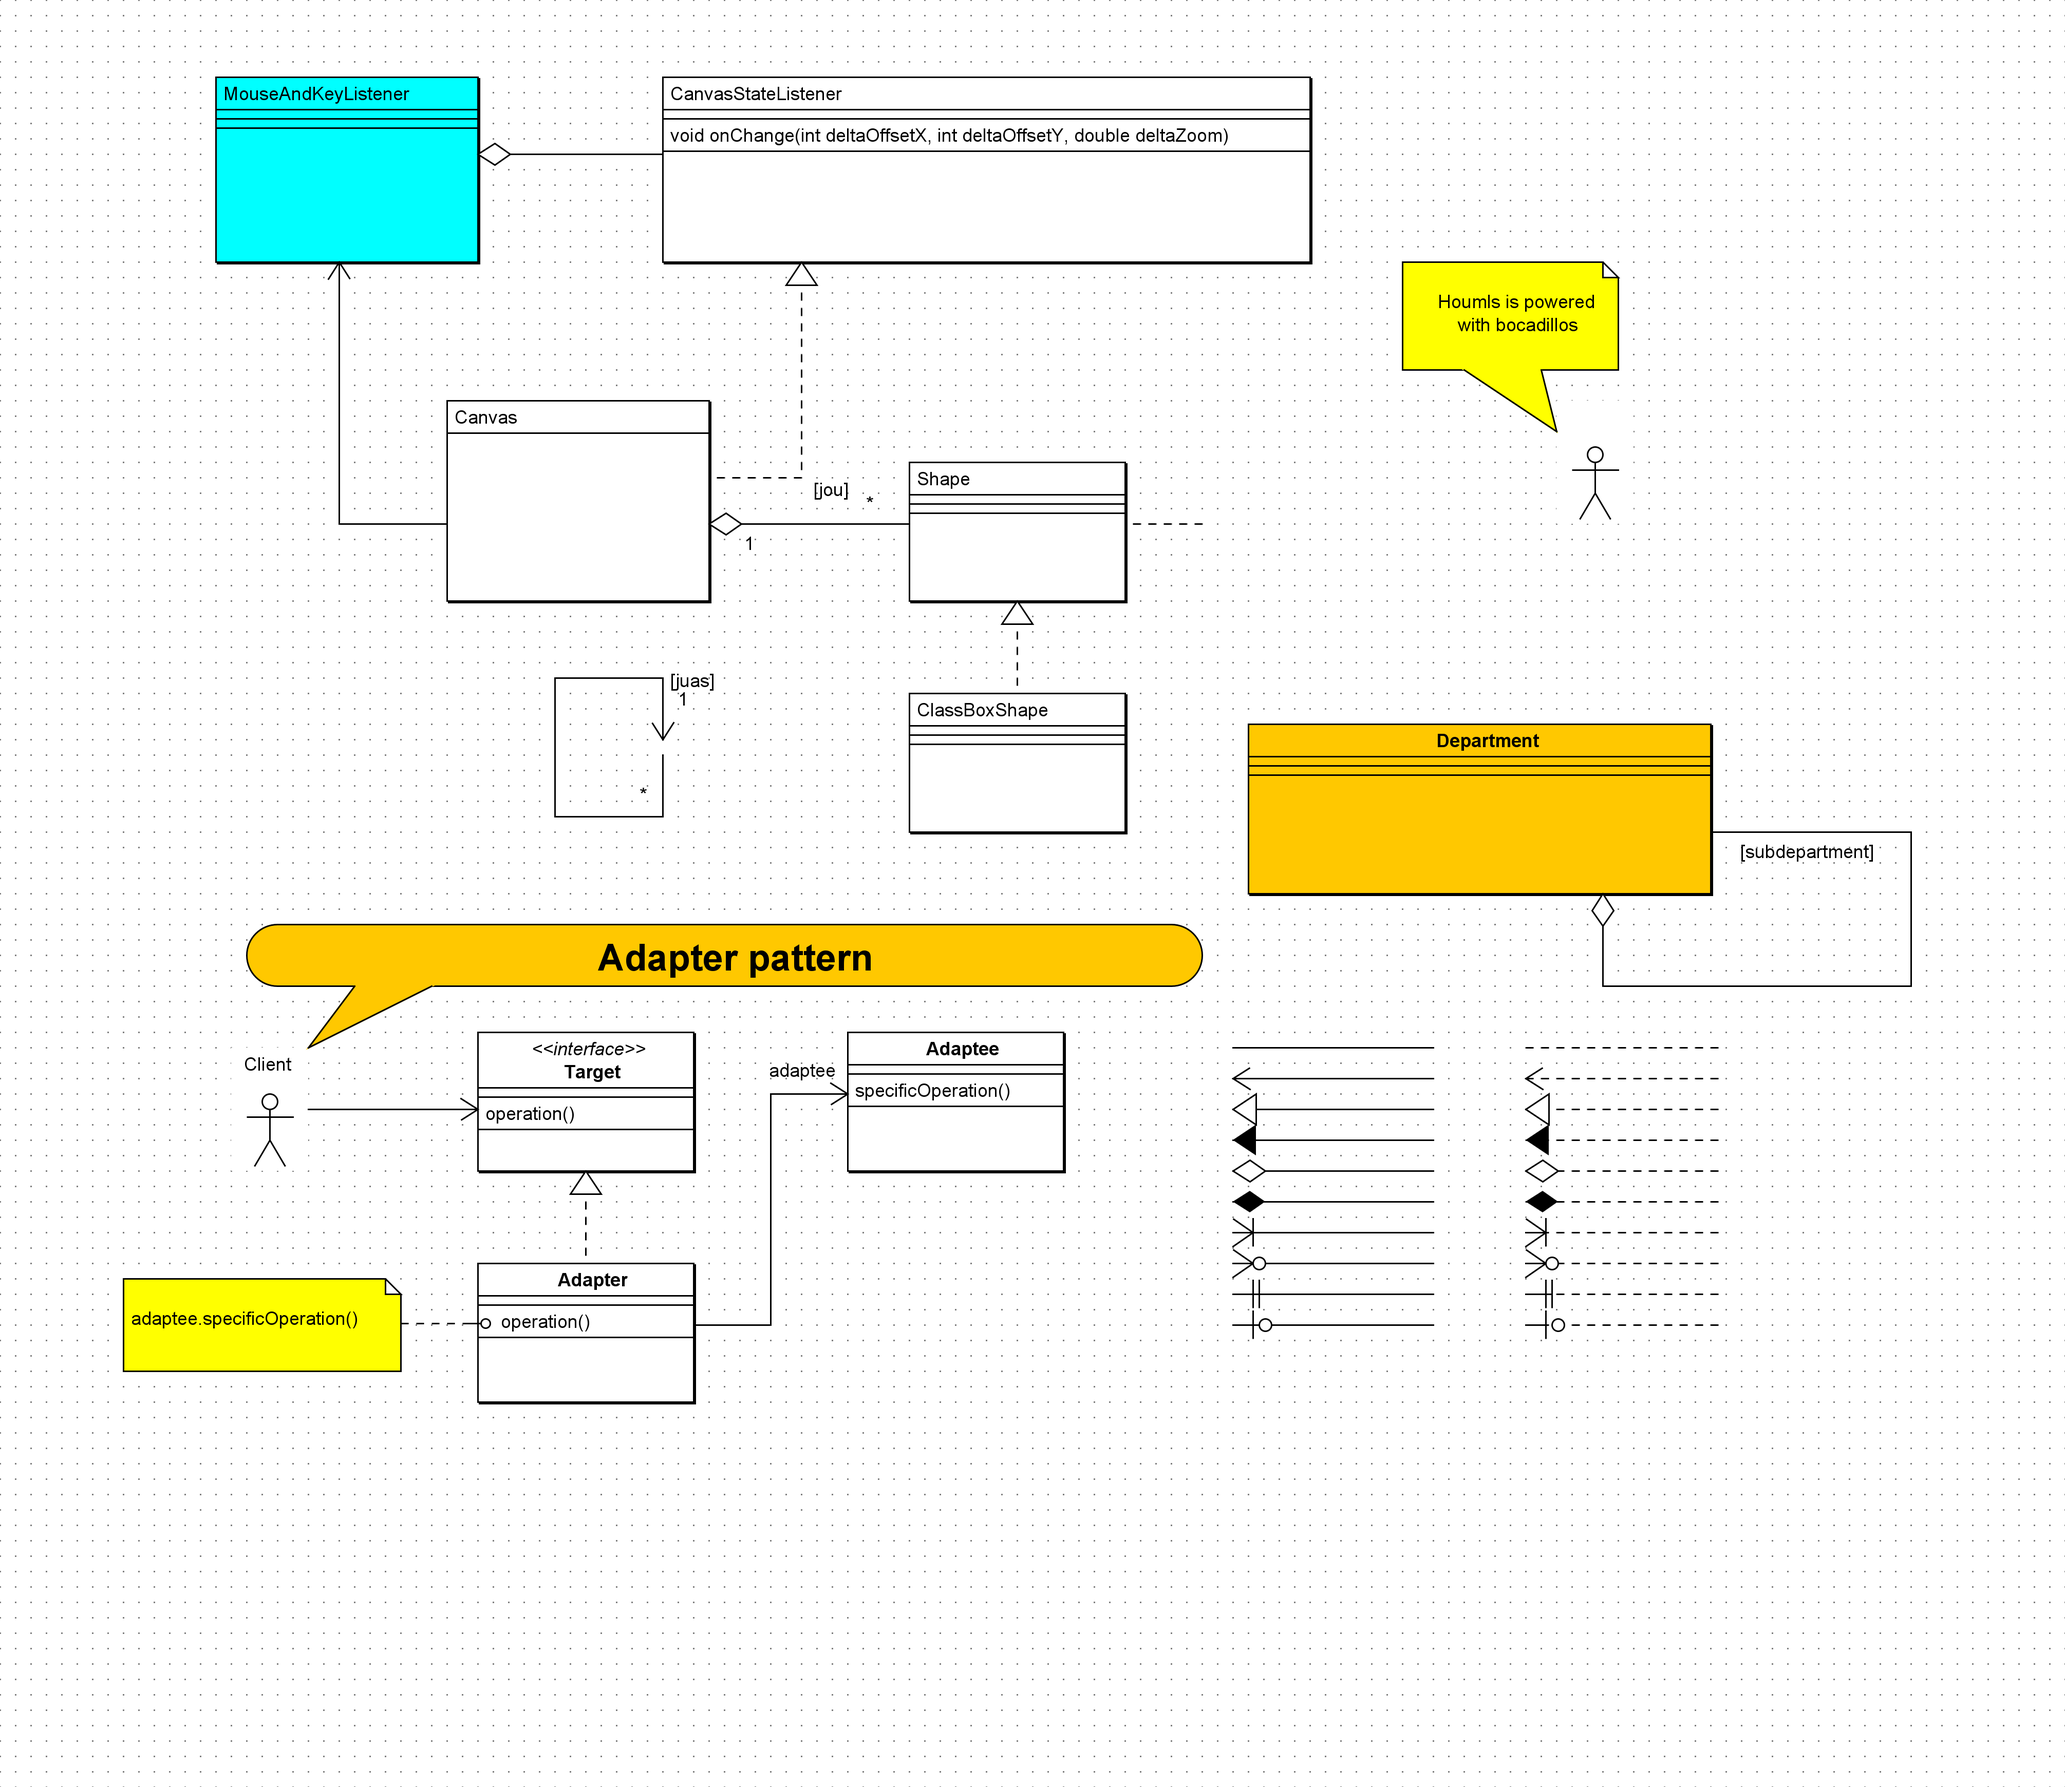
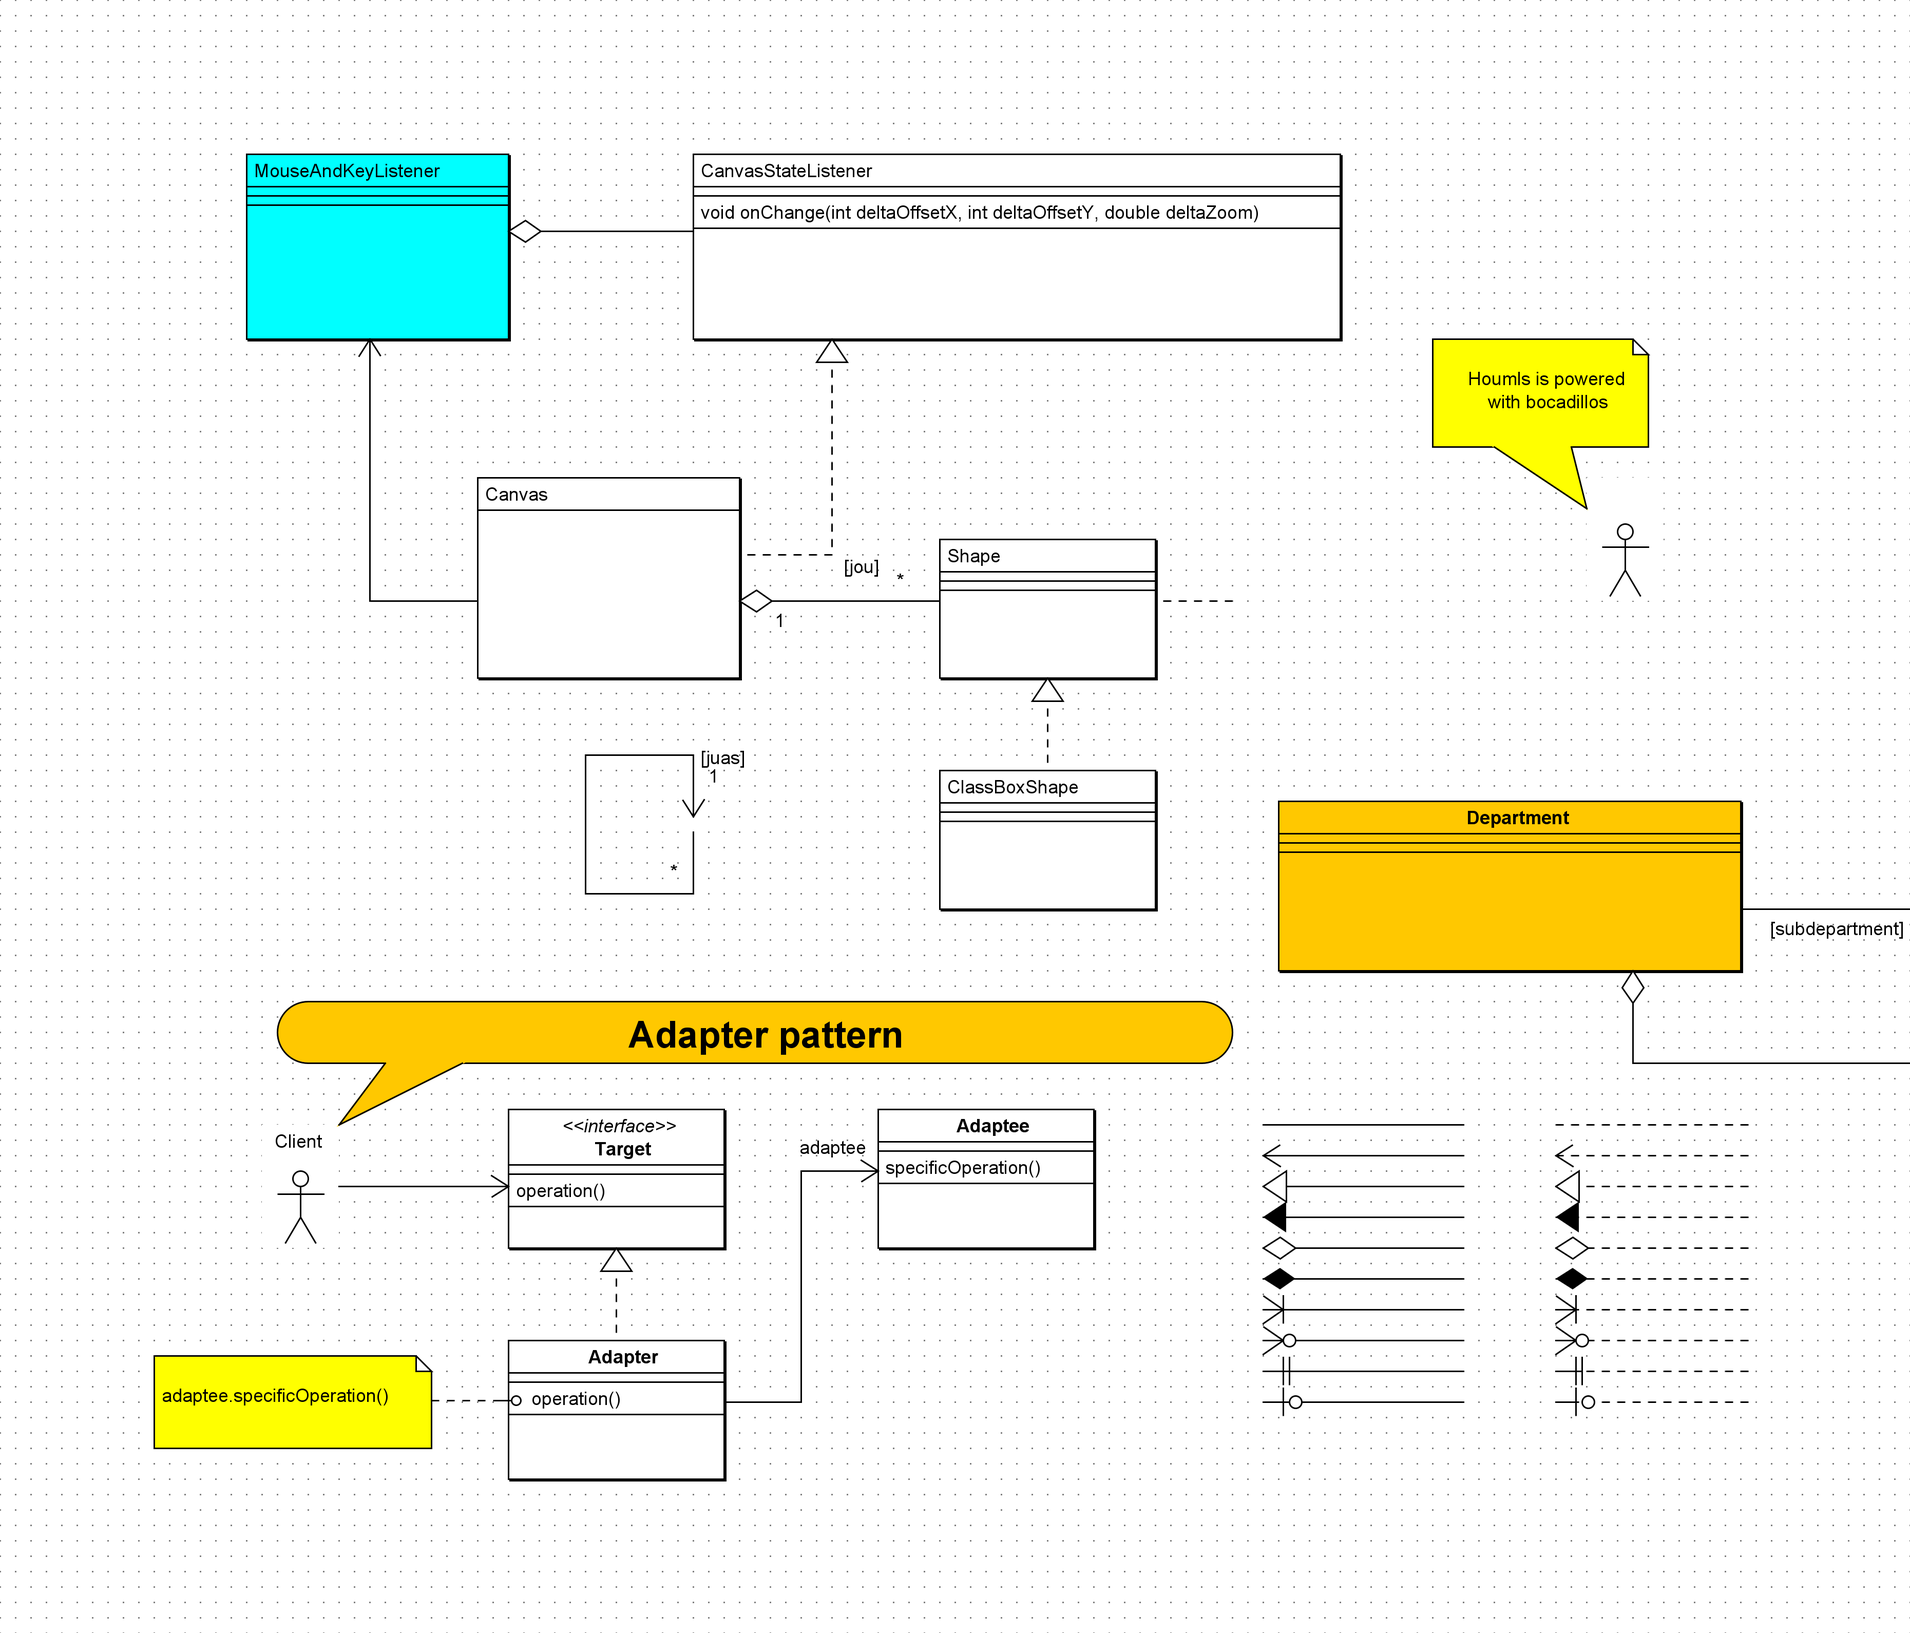
.

diff --git a/src/main/java/org/homs/houmls/MainC1.java b/src/main/java/org/homs/houmls/MainC1.java
@@ -48,6 +48,7 @@ import static org.homs.houmls.LookAndFeel.yellowMartin;
  *
  *     - undo
  *     - multisellecció + moure en grup!
+ *     - copy/cutty/paste!
  *     - accions de teclat
  *
  *      - llegir "UML Distilled" (Martin Fowler) i apendre UML pràctic d'una puta vegada
@@ -70,7 +71,7 @@ import static org.homs.houmls.LookAndFeel.yellowMartin;
  *      - caixa amb codi turtle: recordar com era en QuickBasic. Demo amb turtle
  *      - millorar turtle a lo QBasic?
  *        http://www.antonis.de/qbebooks/gwbasman/draw.html#:~:text=The%20DRAW%20statement%20combines%20most,valid%20only%20in%20graphics%20mode.
- *      - nou connector amb relleno, que es pugui enganxar a caixa i fer bocadillos!
+ *      X nou connector amb relleno, que es pugui enganxar a caixa i fer bocadillos!
  *
  * </pre>
  */
@@ -124,6 +125,7 @@ public class MainC1 {
             final JButton openBbutton;
             final JButton saveButton;
             final JButton saveAsButton;
+            final JButton centerDiagram;
 
             FileNameExtensionFilter filter = new FileNameExtensionFilter("Houmls files", "houmls", "uxf");
 
@@ -212,17 +214,30 @@ public class MainC1 {
                         }
                     });
 
+
+            centerDiagram = buildButton("icons/arrow_out.png", "Center diagram", null, null, null,
+                    new AbstractAction() {
+                        private static final long serialVersionUID = -1337580617687814477L;
+
+                        @Override
+                        public void actionPerformed(ActionEvent e) {
+                            canvas.centerDiagram();
+                        }
+                    });
+
             toolBar.add(newButton);
             toolBar.add(openBbutton);
             toolBar.add(saveButton);
             toolBar.add(saveAsButton);
             toolBar.addSeparator();
+            toolBar.add(centerDiagram);
         }
 
         f.add(toolBar, BorderLayout.NORTH);
 
         JSplitPane sl = new JSplitPane(JSplitPane.HORIZONTAL_SPLIT, canvas, lateralBar);
         f.add(sl);
+
         {
             GraphicsEnvironment env = GraphicsEnvironment.getLocalGraphicsEnvironment();
             Rectangle frameBounds = env.getMaximumWindowBounds();

diff --git a/src/main/java/org/homs/houmls/Canvas.java b/src/main/java/org/homs/houmls/Canvas.java
@@ -502,6 +502,20 @@ public class Canvas extends JPanel {
         return offsetAndZoomListener;
     }
 
+    public void centerDiagram() {
+        Dimension canvasSize = getSize();
+        Rectangle diagramBounds = diagram.getDiagramBounds();
+
+        Point canvasCenter = new Point(canvasSize.width / 2, canvasSize.height / 2);
+        Point diagramCenter = new Point(diagramBounds.x + diagramBounds.width / 2, diagramBounds.y + diagramBounds.height / 2);
+
+        this.diagram.zoom = 1.0;
+        this.diagram.offsetX = (canvasCenter.x - diagramCenter.x);
+        this.diagram.offsetY = (canvasCenter.y - diagramCenter.y);
+
+        repaint();
+    }
+
     @Override
     protected void paintComponent(Graphics g) {
         super.paintComponent(g);
@@ -509,7 +523,6 @@ public class Canvas extends JPanel {
         Dimension dim = getSize();
         g.setColor(Color.WHITE);
         g.fillRect(0, 0, dim.width, dim.height);
-
 
         Graphics2D g2 = (Graphics2D) g;
 
@@ -554,8 +567,9 @@ public class Canvas extends JPanel {
     void drawGrid(Graphics g) {
         Rectangle diagramBounds = diagram.getDiagramBounds();
         g.setColor(GridControl.GRID_COLOR);
-        for (int x = diagramBounds.x - 500; x < diagramBounds.x + diagramBounds.width + 500; x += GridControl.GRID_SIZE) {
-            for (int y = diagramBounds.y - 500; y < diagramBounds.y + diagramBounds.height + 500; y += GridControl.GRID_SIZE) {
+        diagramBounds.grow(500, 500);
+        for (int x = diagramBounds.x; x < diagramBounds.x + diagramBounds.width; x += GridControl.GRID_SIZE) {
+            for (int y = diagramBounds.y; y < diagramBounds.y + diagramBounds.height; y += GridControl.GRID_SIZE) {
                 int gx = GridControl.engrid(x);
                 int gy = GridControl.engrid(y);
                 g.drawLine(gx, gy, gx, gy);

diff --git a/src/main/java/org/homs/houmls/ExportAsPng.java b/src/main/java/org/homs/houmls/ExportAsPng.java
@@ -26,15 +26,12 @@ public class ExportAsPng {
         Canvas canvas = new Canvas(new JTextArea());
         canvas.diagram = UxfFileManager.loadFile(inputFileName);
         Rectangle diagramBounds = canvas.diagram.getDiagramBounds();
-        diagramBounds.grow(150, 150);
-
-        canvas.diagram.offsetX = (diagramBounds.width * zoom - diagramBounds.width) / 2;
-        canvas.diagram.offsetY = (diagramBounds.height * zoom - diagramBounds.height) / 2;
-//        canvas.diagram.offsetX = diagramBounds.width / 2;
-//        canvas.diagram.offsetY = diagramBounds.height / 2;
-        canvas.diagram.zoom = zoom;
+        diagramBounds.grow(100, 100);
 
         canvas.setSize((int) (diagramBounds.width * zoom), (int) (diagramBounds.height * zoom));
+        canvas.centerDiagram();
+        canvas.diagram.zoom = zoom;
+
         BufferedImage bi = new BufferedImage((int) (diagramBounds.width * zoom), (int) (diagramBounds.height * zoom), BufferedImage.TYPE_INT_ARGB);
         Graphics2D g2 = bi.createGraphics();
 
